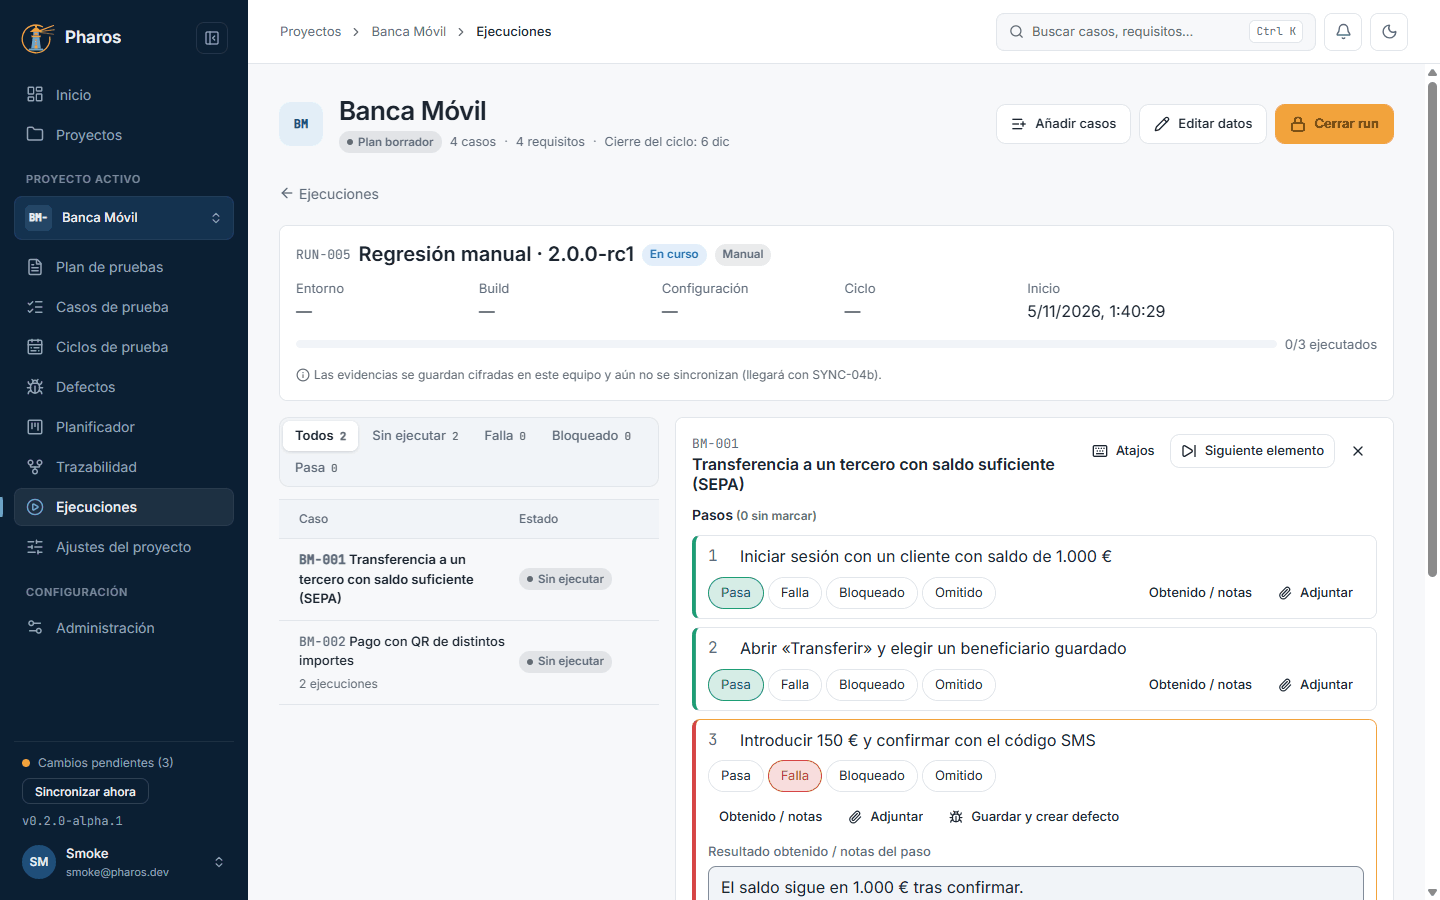
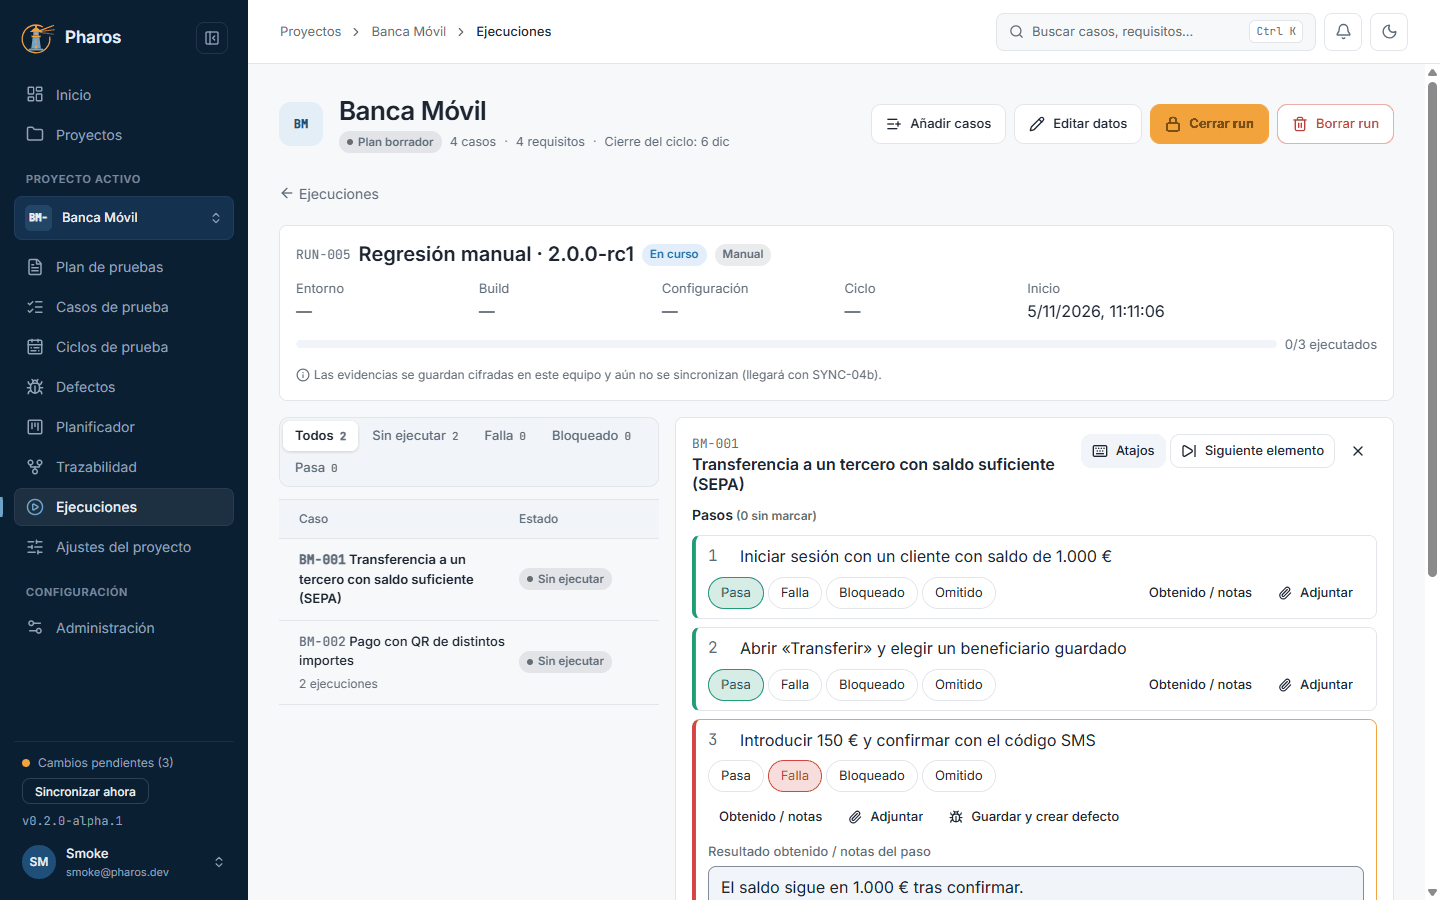
docs(manual): chapters 13 and 14 with «Borrar run» and «Retención por proyecto» (EJE-07, DAT-03c)
From a tour run of every chapter but 11 (AI, unchanged and restored from
HEAD). Kept: the new steps, the run screen captures (they now show «Borrar
run») and the Evidencias store; drift elsewhere reverted.

Changed region(s): [[0.625, 0.0933, 0.9688, 0.1867], [0.7812, 0.3422, 0.8125, 0.3733]]

diff --git a/docs/manual/14-evidencias.md b/docs/manual/14-evidencias.md
@@ -18,19 +18,25 @@ En «Administración», pulsa la pestaña «Evidencias». «Almacén de evidenci
 
 ![El almacén de evidencias](img/evidencias/01-almacen.png)
 
-### 14.2. Verificar las evidencias
+### 14.2. Retención por proyecto
+
+«Retención por proyecto» fija, para cada tipo de evidencia de un proyecto, cuánto se conserva antes de que caduque su archivo: el valor por defecto (30 días las trazas y los vídeos, 90 los reportes y los registros), «Siempre» o un número de días. Nunca caduca la evidencia de la ejecución manual, la de un resultado final fallido o bloqueado ni la de un resultado vinculado a un defecto abierto. Es un ajuste solo de este equipo: no se sincroniza.
+
+![Retención por proyecto](img/evidencias/02-retencion.png)
+
+### 14.3. Verificar las evidencias
 
 «Verificar evidencias» comprueba que cada archivo está y se descifra, y busca archivos que ninguna fila conoce (huérfanos). No borra nada por sí sola; puedes seguir trabajando mientras tanto.
 
-![Verificar las evidencias](img/evidencias/02-verificar.png)
+![Verificar las evidencias](img/evidencias/03-verificar.png)
 
-### 14.3. Borrar los huérfanos
+### 14.4. Borrar los huérfanos
 
 Los huérfanos aparecen en su bloque con su tamaño; «Borrar seleccionados» pide confirmación antes de eliminarlos. Los que faltan o están dañados se listan con el elemento que los usa.
 
-![Borrar los huérfanos](img/evidencias/03-reparar.png)
+![Borrar los huérfanos](img/evidencias/04-reparar.png)
 
-### 14.4. Huérfanos borrados
+### 14.5. Huérfanos borrados
 
 Al confirmar se borran y el informe se actualiza; cada borrado queda en el registro de auditoría.
 
@@ -41,6 +47,12 @@ Al confirmar se borran y el informe se actualiza; cada borrado queda en el regis
 - Los huérfanos (archivos que ya nadie usa) solo se borran cuando tú lo
   confirmas, y nunca los de las últimas 24 horas.
 - Las evidencias no se sincronizan todavía: inclúyelas en tus copias.
+- «Retención por proyecto» decide cuánto se guarda cada tipo de evidencia de
+  un proyecto (trazas, vídeos, reportes, registros, capturas, otras). Al
+  caducar se borra el archivo, nunca el resultado. Nunca caduca la evidencia
+  de la ejecución manual, la de un resultado final fallido o bloqueado ni la
+  de un resultado vinculado a un defecto abierto. Es un ajuste de este
+  equipo: en otro equipo, configúralo allí.
 
 ## Véase también
 

diff --git a/docs/manual/13-ejecucion-manual.md b/docs/manual/13-ejecucion-manual.md
@@ -83,6 +83,18 @@ En un intento fallido, «Crear defecto» abre el editor de defectos relleno con 
 
 Tras cerrar, el run queda en solo lectura; «Reabrir» permite volver a ejecutar.
 
+### 13.13. Borrar un run
+
+«Borrar run» lo quita de la lista, del progreso, de la matriz y del informe, en este equipo y en los que sincronicen. Antes dice qué se oculta: elementos, resultados, evidencias, borradores que se descartan, el ciclo cuyo progreso deja de contarlo y los defectos vinculados. Los resultados nunca se borran a mano: la purga se los lleva con el run pasada la retención. Un run de un ciclo cerrado no se puede borrar.
+
+![Borrar un run](img/ejecucion-manual/13-borrar-run.png)
+
+### 13.14. Run borrado
+
+Al confirmar vuelves a la lista de runs, donde ya no aparece; el registro de auditoría guarda el borrado con lo que ocultó.
+
+![Run borrado](img/ejecucion-manual/14-run-borrado.png)
+
 ## Consejos
 
 - Trabaja con el teclado: P / F / B / S marcan, J / K mueven, N escribe lo
@@ -93,6 +105,12 @@ Tras cerrar, el run queda en solo lectura; «Reabrir» permite volver a ejecutar
   equipo al adjuntarlas.
 - Si el caso cambió después de añadirlo al run, se ejecuta la revisión que el
   run congeló: el resultado siempre apunta a lo que se probó.
+- «Borrar run» quita un run que sobra (uno de prueba, uno duplicado) de las
+  listas, del progreso, de la matriz y del informe, también en los equipos
+  que sincronicen. Sus resultados no se borran a mano: quedan ocultos y la
+  purga se los lleva con el run pasada la retención de «Administración →
+  General». Un run de un ciclo cerrado no se borra: reabre antes el ciclo.
+  Si solo quieres dejar de ejecutarlo, ciérralo como «Cancelado».
 
 ## Véase también
 

diff --git a/docs/manual/README.md b/docs/manual/README.md
@@ -24,6 +24,6 @@ Este manual explica, pantalla a pantalla, cómo se usa Pharos. Cada paso es tamb
 10. [Administración](10-administracion.md) (15 pasos)
 11. [Asistente de IA](11-ia.md) (9 pasos)
 12. [Pantallas estrechas y móvil](12-movil.md) (7 pasos)
-13. [Ejecución manual](13-ejecucion-manual.md) (12 pasos)
-14. [Evidencias](14-evidencias.md) (4 pasos)
+13. [Ejecución manual](13-ejecucion-manual.md) (14 pasos)
+14. [Evidencias](14-evidencias.md) (5 pasos)
 15. [Si algo sale mal](15-errores.md) (4 pasos)
